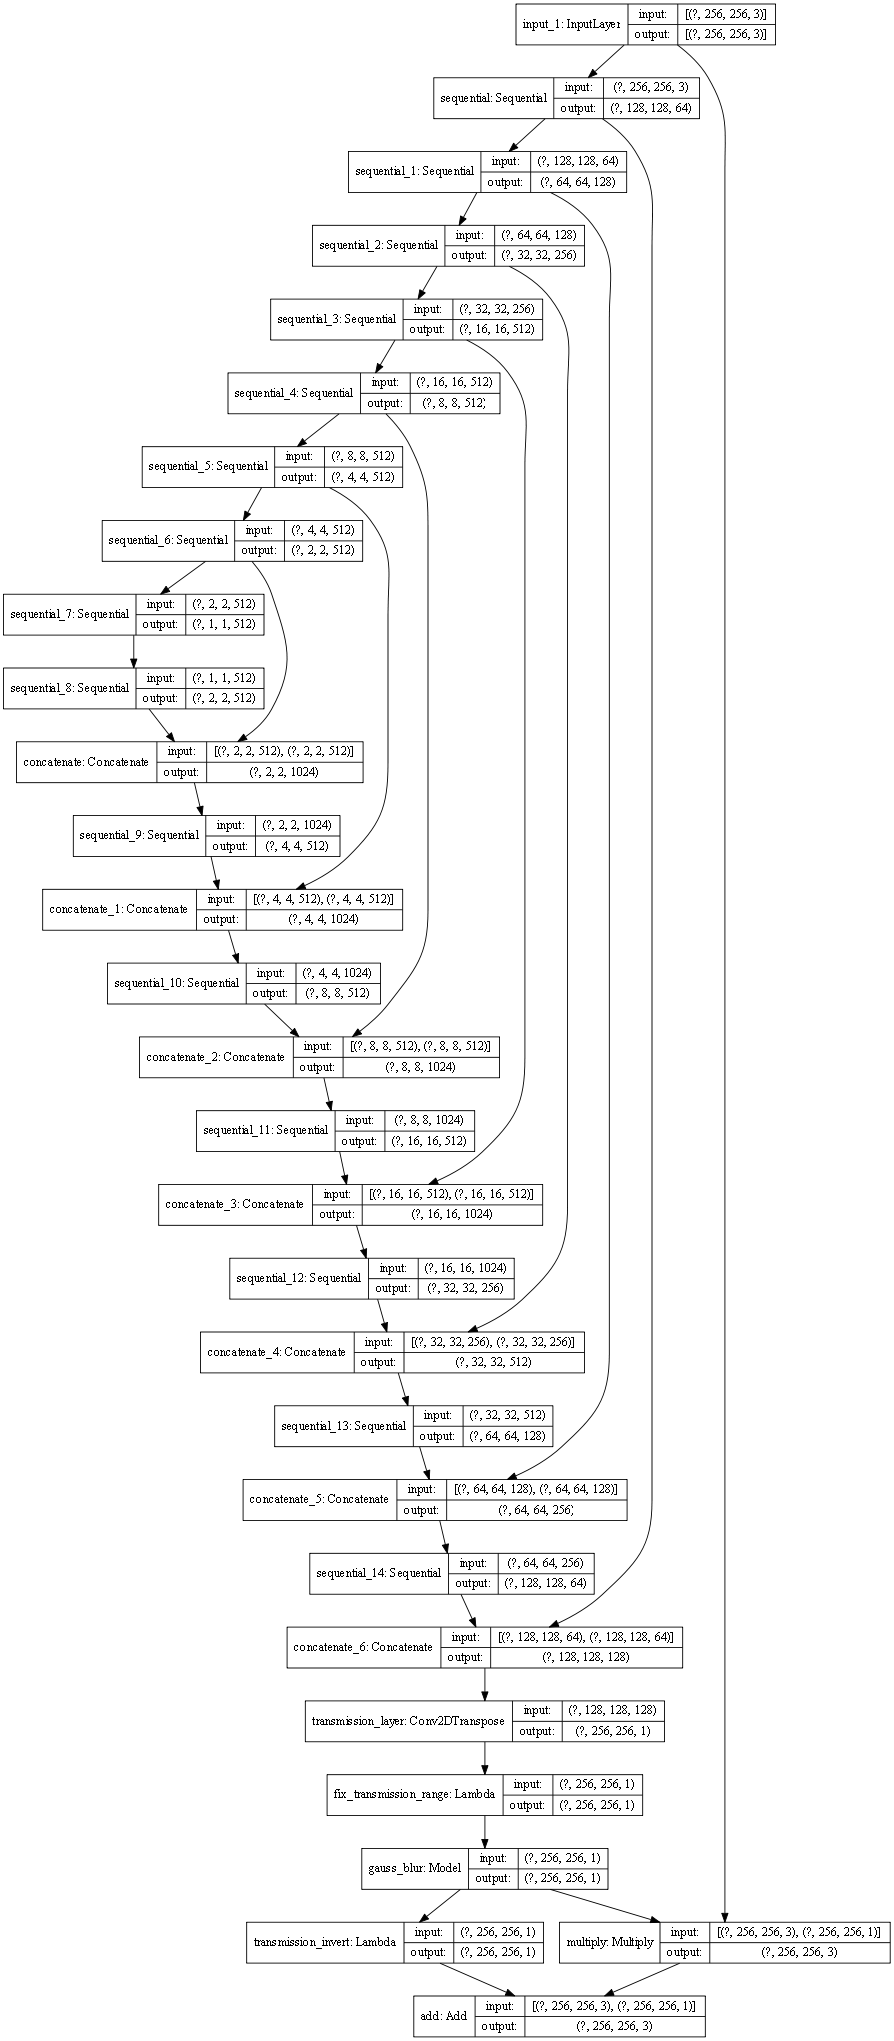
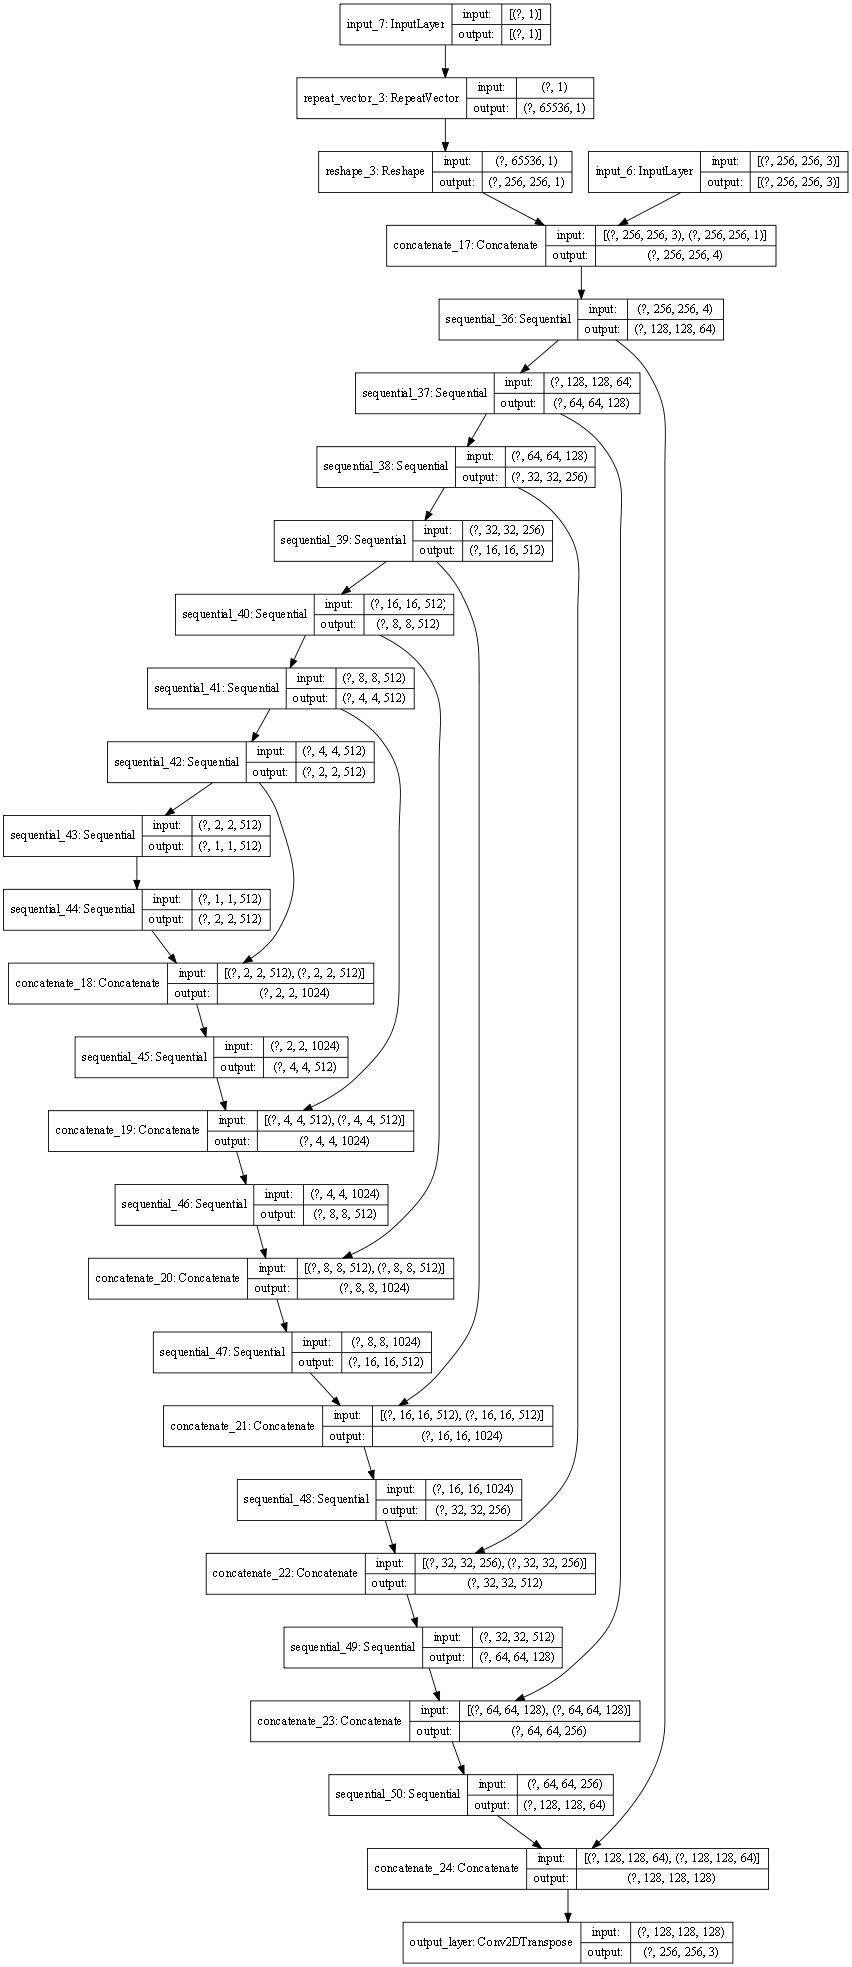
add intensity to model, dataset and plots

Changed region(s): [[0.0, 0.0, 1.0, 1.0], [0.9155, 0.062, 1.0, 0.093]]

diff --git a/lib/plot.py b/lib/plot.py
@@ -1,14 +1,23 @@
+def get_images_and_intensities(test_input_clear, test_input_fog):
+    image_clear = test_input_clear[0][0]
+    intensity_clear = test_input_clear[1][0][0]
+    image_fog = test_input_fog[0][0]
+    intensity_fog = test_input_fog[1][0][0]
+    return image_clear, intensity_clear, image_fog, intensity_fog
+
+
 def plot_generators_predictions(model_clear2fog, test_input_clear, model_fog2clear, test_input_fog,
                                 normalized_input=True):
     import matplotlib.pyplot as plt
     prediction_clear2fog = model_clear2fog(test_input_clear)
     prediction_fog2clear = model_fog2clear(test_input_fog)
 
+    image_clear, intensity_clear, image_fog, intensity_fog = get_images_and_intensities(test_input_clear,
+                                                                                        test_input_fog)
     plt.figure(figsize=(12, 12))
 
-    display_list = [test_input_clear[0], prediction_clear2fog[0], test_input_fog[0], prediction_fog2clear[0]]
-    title = ['Clear', 'To Fog', 'Fog', 'To Clear']
-    # TODO: add fog intensity to the plot
+    display_list = [image_clear, prediction_clear2fog[0], image_fog, prediction_fog2clear[0]]
+    title = ['Clear', 'To Fog {:0.2}'.format(intensity_clear), 'Fog {:0.2}'.format(intensity_fog), 'To Clear']
 
     for i in range(4):
         plt.subplot(2, 2, i + 1)
@@ -25,11 +34,12 @@ def plot_generators_predictions_v2(test_input_clear, prediction_clear2fog, test_
                                    normalized_input=True):
     import matplotlib.pyplot as plt
 
+    image_clear, intensity_clear, image_fog, intensity_fog = get_images_and_intensities(test_input_clear,
+                                                                                        test_input_fog)
     plt.figure(figsize=(12, 12))
 
-    display_list = [test_input_clear[0], prediction_clear2fog[0], test_input_fog[0], prediction_fog2clear[0]]
-    title = ['Clear', 'To Fog', 'Fog', 'To Clear']
-    # TODO: add fog intensity to the plot
+    display_list = [image_clear, prediction_clear2fog[0], image_fog, prediction_fog2clear[0]]
+    title = ['Clear', 'To Fog {:0.2}'.format(intensity_clear), 'Fog {:0.2}'.format(intensity_fog), 'To Clear']
 
     for i in range(4):
         plt.subplot(2, 2, i + 1)
@@ -64,16 +74,20 @@ def plot_generators_and_discriminators_predictions(test_input_clear, prediction_
                                                    discriminator_fakeclear_output, discriminator_fakefog_output,
                                                    normalized_input=True):
     import matplotlib.pyplot as plt
+
+    image_clear, intensity_clear, image_fog, intensity_fog = get_images_and_intensities(test_input_clear,
+                                                                                        test_input_fog)
+
     plt.figure(figsize=(20, 10))
 
     # TODO: add fog intensity to the plot
-    display_list = [test_input_clear[0], discriminator_clear_output[0, ..., -1],
+    display_list = [image_clear, discriminator_clear_output[0, ..., -1],
                     prediction_clear2fog[0], discriminator_fakefog_output[0, ..., -1],
-                    test_input_fog[0], discriminator_fog_output[0, ..., -1],
+                    image_fog, discriminator_fog_output[0, ..., -1],
                     prediction_fog2clear[0], discriminator_fakeclear_output[0, ..., -1]]
     title = ['Real Clear', 'Is real clear? Expected: Yes',
-             'To Fog', 'Is real fog? Expected: No',
-             'Fog', 'Is real fog? Expected: Yes',
+             'To Fog {:0.2}'.format(intensity_clear), 'Is real fog? Expected: No',
+             'Fog {:0.2}'.format(intensity_fog), 'Is real fog? Expected: Yes',
              'To Clear', 'Is real clear? Expected: No']
     for i in range(8):
         plt.subplot(2, 4, i + 1)
@@ -94,8 +108,12 @@ def plot_generators_and_discriminators_predictions(test_input_clear, prediction_
 def get_generator_square_image(test_input_clear, prediction_clear2fog, test_input_fog, prediction_fog2clear,
                                normalized_input=True):
     import tensorflow as tf
-    row1 = tf.concat((test_input_clear[0], prediction_clear2fog[0]), axis=1)
-    row2 = tf.concat((test_input_fog[0], prediction_fog2clear[0]), axis=1)
+
+    image_clear, intensity_clear, image_fog, intensity_fog = get_images_and_intensities(test_input_clear,
+                                                                                        test_input_fog)
+
+    row1 = tf.concat((image_clear, prediction_clear2fog[0]), axis=1)
+    row2 = tf.concat((image_fog, prediction_fog2clear[0]), axis=1)
     img = tf.concat((row1, row2), axis=0)
     if normalized_input:
         img = (img + 1) * 127.5

diff --git a/lib/models.py b/lib/models.py
@@ -75,9 +75,21 @@ class ModelsBuilder:
 
         return result
 
+    def concatenate_image_and_intensity(self, image_input, intensity_input):
+        intensity = tf.keras.layers.RepeatVector(self.image_height * self.image_height)(intensity_input)
+        intensity = tf.keras.layers.Reshape((self.image_height, self.image_height, 1))(intensity)
+        return tf.keras.layers.Concatenate(axis=-1)([image_input, intensity])
+
     # TODO: Check which is better, instancenorm or batchnorm
-    def build_generator(self, use_transmission_map=False, use_gauss_filter=True, norm_type='instancenorm'):
-        inputs = tf.keras.layers.Input(shape=[self.image_height, self.image_height, self.output_channels])
+    def build_generator(self, use_transmission_map=False, use_gauss_filter=True, norm_type='instancenorm',
+                        use_intensity=True):
+        image_input = tf.keras.layers.Input(shape=[self.image_height, self.image_height, self.output_channels])
+        inputs = image_input
+        x = image_input
+        if use_intensity:
+            intensity_input = tf.keras.layers.Input(shape=(1,))
+            inputs = [image_input, intensity_input]
+            x = self.concatenate_image_and_intensity(x, intensity_input)
 
         down_stack = [
             self.downsample(64, 4, norm_type=norm_type, apply_norm=False),  # (bs, 128, 128, 64)
@@ -107,8 +119,6 @@ class ModelsBuilder:
                                                name='transmission_layer' if use_transmission_map else 'output_layer',
                                                kernel_initializer=initializer,
                                                activation='tanh' if self.normalized_input else 'sigmoid')  # (bs, 256, 256, 1)
-        x = inputs
-
         # Downsampling through the model
         skips = []
         for down in down_stack:
@@ -131,16 +141,23 @@ class ModelsBuilder:
                 transmission = gauss.gauss_blur_model([self.image_height, self.image_width, 1], name="gauss_blur")(
                     transmission)
 
-            x = tf.keras.layers.multiply([inputs, transmission])
+            x = tf.keras.layers.multiply([image_input, transmission])
             one_minus_t = tf.keras.layers.Lambda(lambda t: 1 - t, name='transmission_invert')(transmission)
             x = tf.keras.layers.add([x, one_minus_t])
 
         return tf.keras.Model(inputs=inputs, outputs=x)
 
-    def build_discriminator(self, norm_type='instancenorm'):
+    def build_discriminator(self, norm_type='instancenorm', use_intensity=True):
         initializer = tf.random_normal_initializer(0., 0.02)
         inp = tf.keras.layers.Input(shape=[256, 256, 3], name='input_image')
-        down1 = self.downsample(64, 4, norm_type=norm_type, apply_norm=False)(inp)  # (bs, 128, 128, 64)
+        inputs = inp
+        x = inp
+        if use_intensity:
+            intensity_input = tf.keras.layers.Input(shape=(1,))
+            inputs = [inp, intensity_input]
+            x = self.concatenate_image_and_intensity(x, intensity_input)
+
+        down1 = self.downsample(64, 4, norm_type=norm_type, apply_norm=False)(x)  # (bs, 128, 128, 64)
         down2 = self.downsample(128, 4, norm_type=norm_type)(down1)  # (bs, 64, 64, 128)
         down3 = self.downsample(256, 4, norm_type=norm_type)(down2)  # (bs, 32, 32, 256)
 
@@ -156,5 +173,5 @@ class ModelsBuilder:
         zero_pad2 = tf.keras.layers.ZeroPadding2D()(leaky_relu)  # (bs, 33, 33, 512)
         last = tf.keras.layers.Conv2D(1, 4, strides=1,
                                       kernel_initializer=initializer)(zero_pad2)  # (bs, 30, 30, 1)
-        return tf.keras.Model(inputs=inp, outputs=last)
+        return tf.keras.Model(inputs=inputs, outputs=last)
         # TODO: should add activation to last layer?

diff --git a/lib/dataset.py b/lib/dataset.py
@@ -7,13 +7,6 @@ COLUMN_PATH = 'path'
 COLUMN_INTENSITY = 'intensity'
 
 
-# Helper functions:
-# TODO: Delete
-# def shuffle_dataframe(df):
-#     import numpy as np
-#     return df.iloc[np.random.permutation(df_length(df))]
-
-
 def split_dataframe(df, smaller_split_ratio):
     split_size = int(df_length(df) * smaller_split_ratio)
     return df.iloc[split_size:], df.iloc[:split_size]  # return larger_portion, smaller_portion
@@ -22,7 +15,7 @@ def split_dataframe(df, smaller_split_ratio):
 def image_names_generator(df):
     def gen():
         for index, row in df.iterrows():
-            yield row[COLUMN_PATH], row[COLUMN_INTENSITY]
+            yield row[COLUMN_PATH], tf.expand_dims(tf.cast(row[COLUMN_INTENSITY], tf.float32),axis=-1)
 
     return gen
 
@@ -75,8 +68,8 @@ class DatasetInitializer:
         shape = tf.shape(image)
         original_height = tf.cast(shape[0], tf.int32)
         original_width = tf.cast(shape[1], tf.int32)
-        original_height_f = tf.cast(original_height, tf.float64)
-        original_width_f = tf.cast(original_width, tf.float64)
+        original_height_f = tf.cast(original_height, tf.float32)
+        original_width_f = tf.cast(original_width, tf.float32)
         # if original_height is None or original_width is None:
         #     return tf.image.resize(image, [target_width, target_height],
         #                        method=tf.image.ResizeMethod.NEAREST_NEIGHBOR)
@@ -126,14 +119,12 @@ class DatasetInitializer:
     def preprocess_image_train(self, image, intensity):
         image = self.normalize_image(image)
         image = self.random_jitter(image)
-        # TODO: return intensity
-        return image
+        return image, intensity
 
     def preprocess_image_test(self, image, intensity):
         image = self.normalize_image(image)
         image = self.resize_to_thumbnail(image, self.image_height, self.image_width)
-        # TODO: return intensity
-        return image
+        return image, intensity
 
     def process_annotations_file(self, file_path):
         df = pd.read_csv(file_path, names=[COLUMN_PATH, COLUMN_INTENSITY])
@@ -172,7 +163,7 @@ class DatasetInitializer:
         self.sample_clear_df = images_df[images_df[COLUMN_INTENSITY] == 0]
         self.sample_fog_df = images_df[images_df[COLUMN_INTENSITY] != 0]
         print("Found {} sample clear image(s) and {} sample fog image(s)".format(df_length(self.sample_clear_df),
-                                                                             df_length(self.sample_fog_df)))
+                                                                                 df_length(self.sample_fog_df)))
 
     def prepare_dataset(self, buffer_size, batch_size,
                         test_split=0.3,
@@ -188,7 +179,7 @@ class DatasetInitializer:
         sample_clear_gen = image_names_generator(self.sample_clear_df)
         sample_fog_gen = image_names_generator(self.sample_fog_df)
 
-        output_types = (tf.string, tf.float64)
+        output_types = (tf.string, tf.float32)
         train_clear = tf.data.Dataset.from_generator(train_clear_gen, output_types).map(self.preprocess_image_path)
         train_fog = tf.data.Dataset.from_generator(train_fog_gen, output_types).map(self.preprocess_image_path)
         test_clear = tf.data.Dataset.from_generator(test_clear_gen, output_types).map(self.preprocess_image_path)
